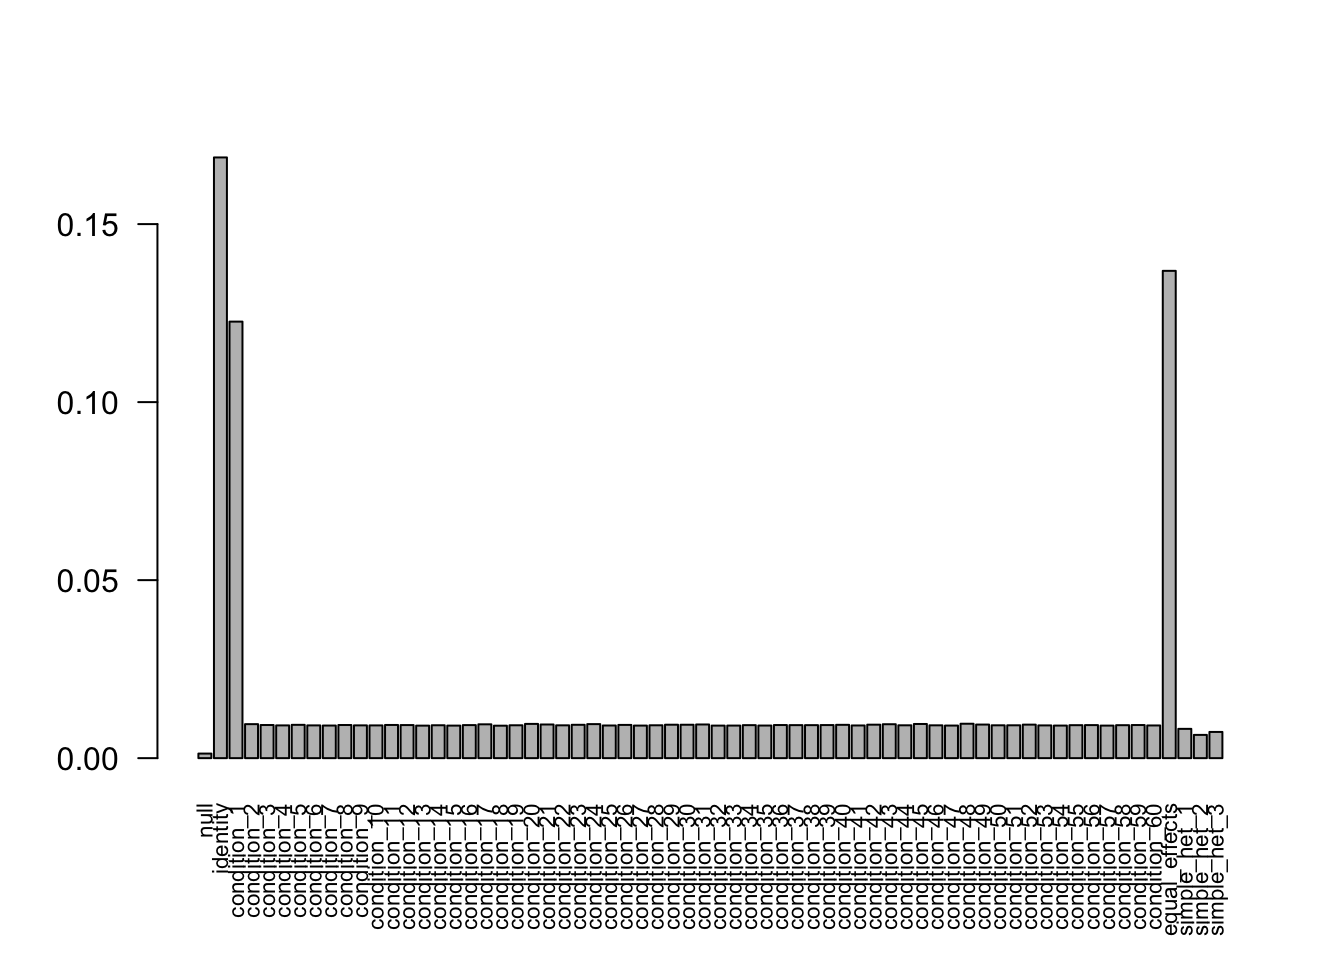
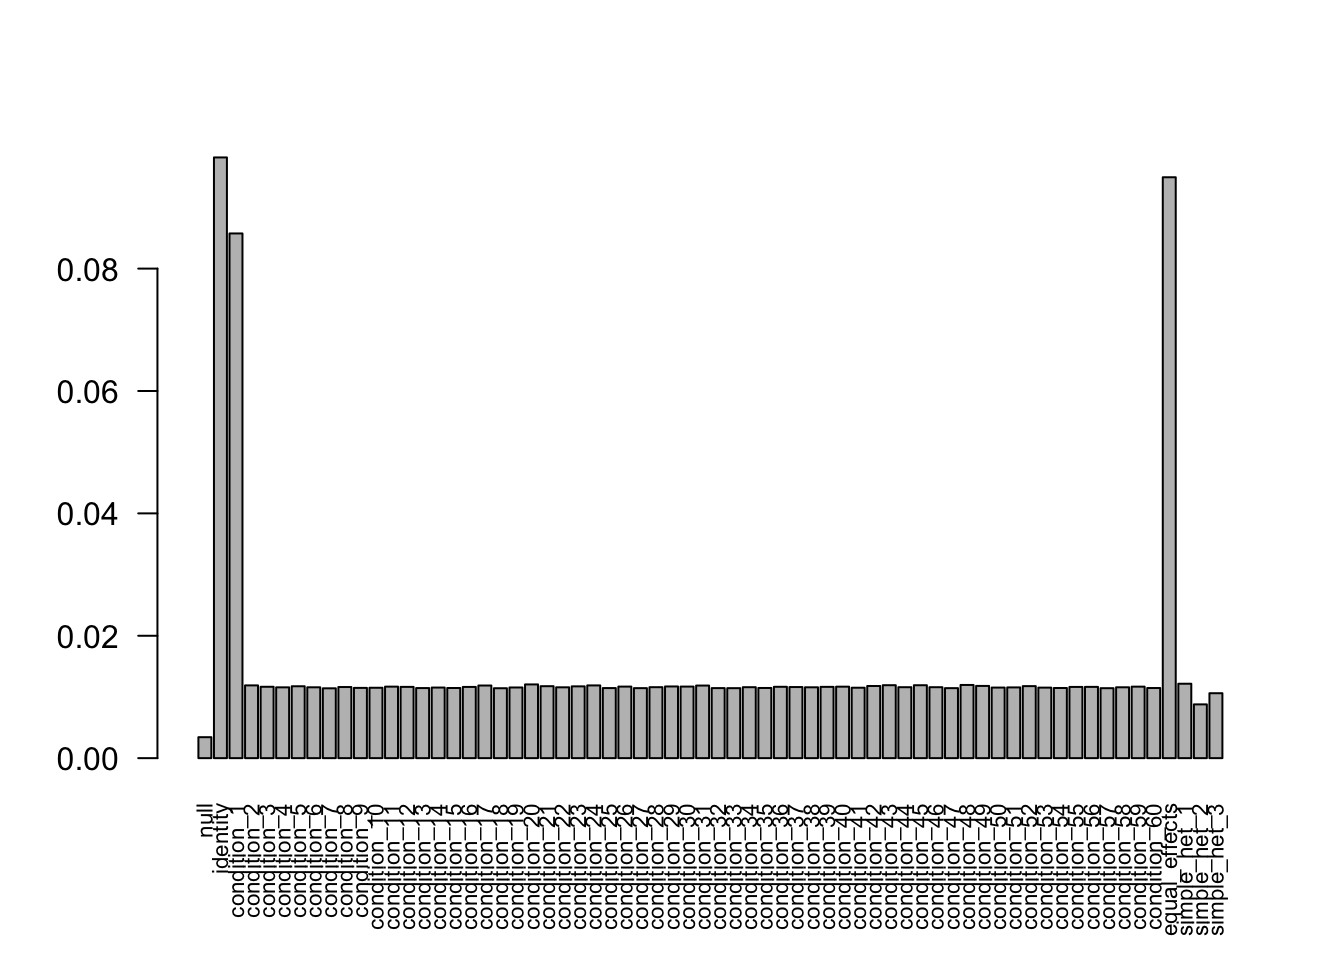
Build site.

diff --git a/docs/mash_missing_whole_row.html b/docs/mash_missing_whole_row.html
@@ -318,10 +318,10 @@ div.section {
 
 <!-- Update knitr chunk options -->
 <!-- Insert the date the file was last updated -->
-<p><strong>Last updated:</strong> 2018-03-01</p>
+<p><strong>Last updated:</strong> 2018-03-02</p>
 <!-- Insert the code version (Git commit SHA1) if Git repository exists and R
  package git2r is installed -->
-<p><strong>Code version:</strong> d62d09a</p>
+<p><strong>Code version:</strong> a79b566</p>
 <div id="r5" class="section level1">
 <h1>R=5</h1>
 <pre class="r"><code>library(mashr)</code></pre>
@@ -351,11 +351,6 @@ data.large.dev$Shat[is.na(data.miss$Shat)] = 1000</code></pre>
 either too small, or negative; weights have been corrected and renormalized
 after the optimization.</code></pre>
 <p><img src="figure/mash_missing_whole_row.Rmd/unnamed-chunk-4-1.png" width="672" style="display: block; margin: auto;" /></p>
-<p>The log likelihood for model with missing data is -2.111711210^{4}. The weights learned from the data is correct. There are 985 significant samples.</p>
-<p>The log likelihood for model without missing vlaues is -1550.3763871. The estimated weights are same. There are 985 significant samples. The missing values with large deviation contain little information.</p>
-<p>The estimates for other observed values are similar, as we expected.</p>
-<pre class="r"><code>sqrt(sum((mash.model.missing$result$PosteriorMean[-missing] - mash.model.missing.na$result$PosteriorMean)^2))</code></pre>
-<pre><code>[1] 3.422263e-07</code></pre>
 </div>
 <div id="ez-model" class="section level2">
 <h2>EZ model</h2>
@@ -367,13 +362,7 @@ after the optimization.</code></pre>
 either too small, or negative; weights have been corrected and renormalized
 after the optimization.</code></pre>
 <pre><code>FIXME: &#39;compute_posterior_matrices&#39; in Rcpp does not transfer EZ to EE</code></pre>
-<pre class="r"><code>par(mfrow=c(1,2))
-barplot(get_estimated_pi(mash.model.missing.1), las=2, cex.names = 0.7, main=&#39;with missing values&#39;)
-barplot(get_estimated_pi(mash.model.missing.na.1), las=2, cex.names = 0.7, main=&#39;without missing values&#39;)</code></pre>
-<p><img src="figure/mash_missing_whole_row.Rmd/unnamed-chunk-7-1.png" width="672" style="display: block; margin: auto;" /></p>
-<pre class="r"><code>par(mfrow=c(1,1))</code></pre>
-<p>The log likelihood for the model with missing values is -2.159352210^{4}. There are 974 significant samples.</p>
-<p>The log likelihood for the model without missing values is -1550.3763871. The estimated weights are different. There are 985 significant samples. There are 2 cases for z close to 0. One is the observed effect is close to zero; the other is the value is missing, it has large standard deviation. The EZ model cannot distinguish this two cases. They contain same amount of information.</p>
+<p><img src="figure/mash_missing_whole_row.Rmd/unnamed-chunk-6-1.png" width="672" style="display: block; margin: auto;" /></p>
 </div>
 </div>
 <div id="r60" class="section level1">
@@ -382,7 +371,7 @@ barplot(get_estimated_pi(mash.model.missing.na.1), las=2, cex.names = 0.7, main=
 <h2>EE model</h2>
 <div id="with-missing-values" class="section level3">
 <h3>With missing values</h3>
-<p><img src="figure/mash_missing_whole_row.Rmd/unnamed-chunk-9-1.png" width="672" style="display: block; margin: auto;" /> The log likelihood is -2.124305510^{5}. The weights learned from the data is correct. There are 1020 significant samples.</p>
+<p><img src="figure/mash_missing_whole_row.Rmd/unnamed-chunk-8-1.png" width="672" style="display: block; margin: auto;" /> The weights learned from the data are correct.</p>
 </div>
 <div id="without-missing-values" class="section level3">
 <h3>Without missing values</h3>
@@ -392,10 +381,7 @@ barplot(get_estimated_pi(mash.model.missing.na.1), las=2, cex.names = 0.7, main=
 0.337563330121546, : Optimization step yields mixture weights that are
 either too small, or negative; weights have been corrected and renormalized
 after the optimization.</code></pre>
-<p><img src="figure/mash_missing_whole_row.Rmd/unnamed-chunk-10-1.png" width="672" style="display: block; margin: auto;" /> The log likelihood is 2.187068210^{4}. The estimated weights are very weird and incorrect. It ignores the null matrix. There are 1014 significant samples.</p>
-<p>The estimates for other observed values are different, as we expected.</p>
-<pre class="r"><code>sqrt(sum((mash.model.missing$result$PosteriorMean[-missing] - mash.model.missing.na$result$PosteriorMean)^2))</code></pre>
-<pre><code>[1] 0.7759291</code></pre>
+<p><img src="figure/mash_missing_whole_row.Rmd/unnamed-chunk-9-1.png" width="672" style="display: block; margin: auto;" /> The estimated weights are very weird and incorrect. It ignores the null matrix.</p>
 </div>
 </div>
 <div id="ez-model-1" class="section level2">
@@ -409,8 +395,7 @@ after the optimization.</code></pre>
 either too small, or negative; weights have been corrected and renormalized
 after the optimization.</code></pre>
 <pre><code>FIXME: &#39;compute_posterior_matrices&#39; in Rcpp does not transfer EZ to EE</code></pre>
-<p><img src="figure/mash_missing_whole_row.Rmd/unnamed-chunk-12-1.png" width="672" style="display: block; margin: auto;" /></p>
-<p>The log likelihood is -2.13689310^{5}. There are 1010 significant samples.</p>
+<p><img src="figure/mash_missing_whole_row.Rmd/unnamed-chunk-10-1.png" width="672" style="display: block; margin: auto;" /></p>
 </div>
 <div id="without-missing-values-1" class="section level3">
 <h3>Without missing values</h3>
@@ -426,19 +411,19 @@ either too small, or negative; weights have been corrected and renormalized
 after the optimization.</code></pre>
 <pre><code>FIXME: &#39;compute_posterior_matrices&#39; in Rcpp does not transfer EZ to EE</code></pre>
 <pre class="r"><code>barplot(get_estimated_pi(mash.model.missing.na.1), las=2, cex.names = 0.7)</code></pre>
-<p><img src="figure/mash_missing_whole_row.Rmd/unnamed-chunk-13-1.png" width="672" style="display: block; margin: auto;" /> The log likelihood is 2.187068210^{4}. The estimated weights are different. There are 1014 significant samples.</p>
+<p><img src="figure/mash_missing_whole_row.Rmd/unnamed-chunk-11-1.png" width="672" style="display: block; margin: auto;" /> The estimated weights are different.</p>
 </div>
 </div>
 </div>
-<div id="covariance" class="section level1">
-<h1>Covariance</h1>
+<div id="subgroups" class="section level1">
+<h1>Subgroups</h1>
 <p>The weired covariance structure is caused by the high dimension of R.</p>
 <p>If we separate conditions into several groups, the covariance structure will be correct.</p>
 <p>We show this for the EZ model R=60.</p>
 <pre><code>FIXME: &#39;compute_posterior_matrices&#39; in Rcpp does not transfer EZ to EE
 FIXME: &#39;compute_posterior_matrices&#39; in Rcpp does not transfer EZ to EE
 FIXME: &#39;compute_posterior_matrices&#39; in Rcpp does not transfer EZ to EE</code></pre>
-<p><img src="figure/mash_missing_whole_row.Rmd/unnamed-chunk-14-1.png" width="672" style="display: block; margin: auto;" /></p>
+<p><img src="figure/mash_missing_whole_row.Rmd/unnamed-chunk-12-1.png" width="672" style="display: block; margin: auto;" /></p>
 </div>
 <div id="session-information" class="section level1">
 <h1>Session information</h1>
@@ -459,20 +444,20 @@ attached base packages:
 [1] stats     graphics  grDevices utils     datasets  methods   base     
 
 other attached packages:
-[1] mashr_0.2-4 ashr_2.2-4 
+[1] mashr_0.2-6 ashr_2.2-7 
 
 loaded via a namespace (and not attached):
- [1] Rcpp_0.12.15      knitr_1.17        magrittr_1.5     
+ [1] Rcpp_0.12.15      knitr_1.20        magrittr_1.5     
  [4] REBayes_1.2       MASS_7.3-47       doParallel_1.0.11
  [7] pscl_1.5.2        SQUAREM_2017.10-1 lattice_0.20-35  
-[10] foreach_1.4.4     plyr_1.8.4        stringr_1.2.0    
+[10] foreach_1.4.4     plyr_1.8.4        stringr_1.3.0    
 [13] tools_3.4.3       parallel_3.4.3    grid_3.4.3       
 [16] rmeta_2.16        git2r_0.20.0      htmltools_0.3.6  
-[19] iterators_1.0.9   assertthat_0.2.0  yaml_2.1.16      
+[19] iterators_1.0.9   assertthat_0.2.0  yaml_2.1.17      
 [22] rprojroot_1.2     digest_0.6.13     Matrix_1.2-12    
 [25] codetools_0.2-15  evaluate_0.10.1   rmarkdown_1.8    
 [28] stringi_1.1.6     compiler_3.4.3    Rmosek_8.0.69    
-[31] backports_1.1.2   mvtnorm_1.0-7     truncnorm_1.0-7  </code></pre>
+[31] backports_1.1.2   mvtnorm_1.0-7     truncnorm_1.0-8  </code></pre>
 </div>
 
 <!-- Adjust MathJax settings so that all math formulae are shown using
